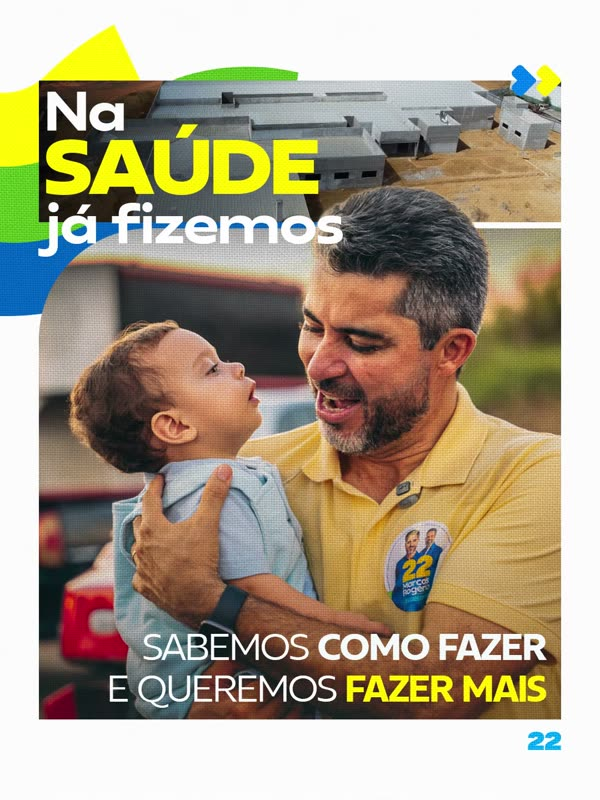
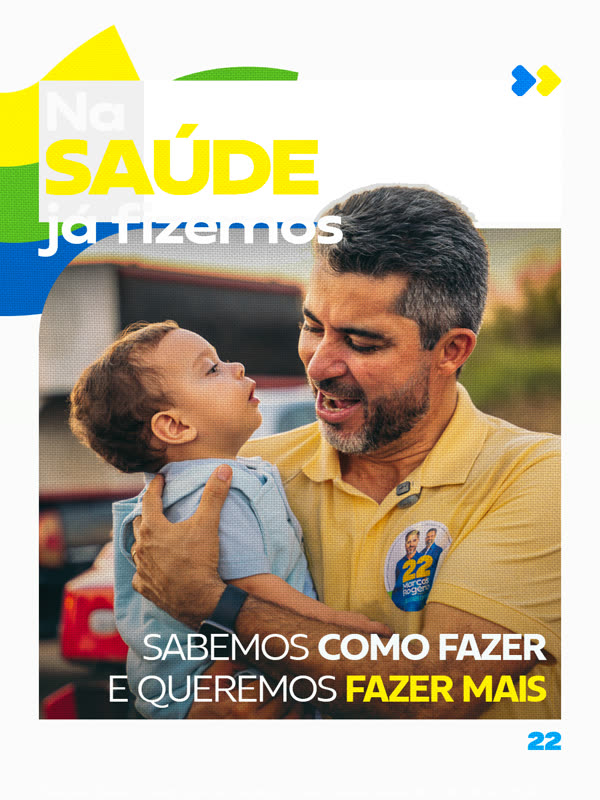
Carrosseis 2026-09-07T22:15:46+00:00

diff --git a/capa-teste/index.html b/capa-teste/index.html
@@ -9,9 +9,9 @@
 <title>CAPA-TESTE</title>
 <meta property="og:type" content="website">
 <meta property="og:title" content="CAPA-TESTE">
-<meta property="og:description" content="1 lâminas">
+<meta property="og:description" content="2 lâminas">
 <meta property="og:url" content="https://silasrcha.github.io/carrosseis/capa-teste/">
-<meta property="og:image" content="https://silasrcha.github.io/carrosseis/capa-teste/previa.jpg?v=2752905befa662f0">
+<meta property="og:image" content="https://silasrcha.github.io/carrosseis/capa-teste/previa.jpg?v=7fb01976a01c8dca">
 <meta property="og:image:type" content="image/jpeg">
 <meta property="og:image:width" content="600">
 <meta property="og:image:height" content="800">
@@ -114,7 +114,7 @@
 
 <script>
 (() => {
-  const ITENS = [{"tipo": "video", "src": "01.mp4?v=2752905befa662f0", "poster": "01-capa.jpg?v=2752905befa662f0"}];
+  const ITENS = [{"tipo": "imagem", "src": "01.png?v=7fb01976a01c8dca"}, {"tipo": "video", "src": "02.mp4?v=7fb01976a01c8dca", "poster": "02-capa.jpg?v=7fb01976a01c8dca"}];
   const PROPORCAO_FIXA = null;
 
   const vp = document.getElementById('vp');
@@ -413,7 +413,7 @@
 
 <script>
 (() => {
-  const VERSAO = "2752905befa662f0";
+  const VERSAO = "7fb01976a01c8dca";
   let ocupado = false;
   async function conferir() {
     if (ocupado || document.hidden) return;
